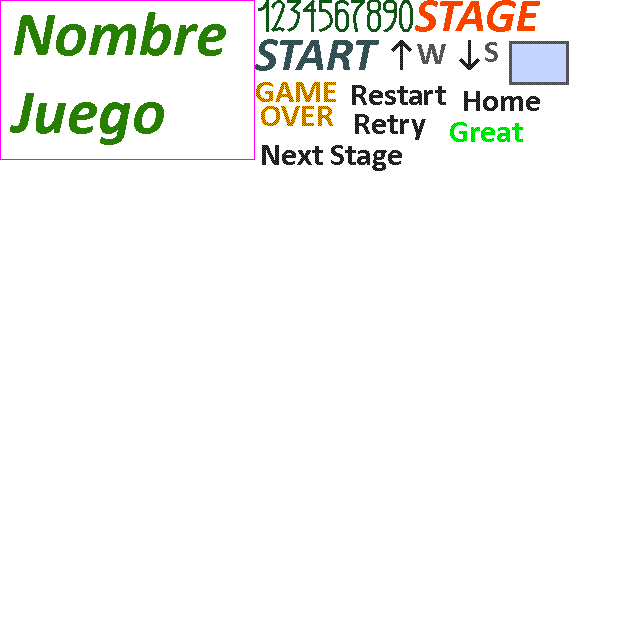
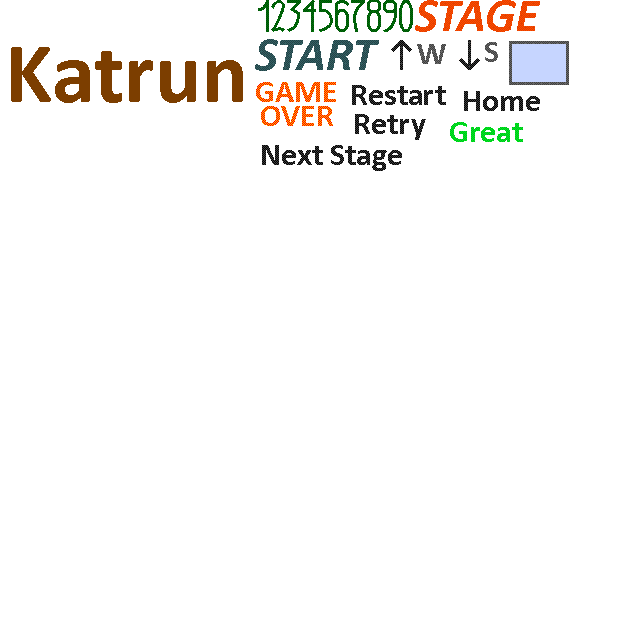
Submit al Ludum Dare 33

Changed region(s): [[0.0, 0.0, 0.4062, 0.25]]

diff --git a/js/GameEngine.js b/js/GameEngine.js
@@ -35,7 +35,7 @@ GameEngineClass = function(){
 
 	this.entidadesFactory = [];
 
-	this.isGUI = false;
+	this.isGUI = true;
 }
 
 GameEngineClass.prototype.setup = function () {
@@ -86,9 +86,11 @@ GameEngineClass.prototype.setup = function () {
 GameEngineClass.prototype.constructor = GameEngineClass;
 	// Metodo invocado cuando se terminan de cargar los sprites
 GameEngineClass.prototype.callbackIniciar = function(){
-
-	GE.nuevoNivel();
-
+	if(GE.isGUI){
+		GE.nuevoGUI("InicioGUI");
+	}else{
+		GE.nuevoNivel();
+	}	
 	/** Inicio de la sección para preparar un gameLoop eficiente **/
 	var animFrame = window.requestAnimationFrame ||
         window.webkitRequestAnimationFrame ||
@@ -138,13 +140,13 @@ GameEngineClass.prototype.cargarNiveles = function(){
 GameEngineClass.prototype.nivelSuperado = function(){
 	//alert("Level Cleared");
 	this.nivelActual++;
-	//this.nuevoNivel();
+	this.nuevoGUI("SuperadoGUI");
 	this.isGUI=true;
 }
 
 GameEngineClass.prototype.nivelPerdido = function(){
 	//alert("GameOver try again...");
-	//this.nuevoNivel();
+	this.nuevoGUI("PerdisteGUI");
 	this.isGUI=true;
 }
 
@@ -176,12 +178,33 @@ GameEngineClass.prototype.nuevoNivel = function(){
 
 }
 
+GameEngineClass.prototype.nuevoGUI = function(nombreGUI){
+	var nivelCargar = niveles[nombreGUI];
+
+	//Limpiamos todo lo del nivel anterior
+	for (var j = 0; j < this.entities.length; j++) {
+		if(this.entities[j].physBody) gPhysicsEngine.removeBody(this.entities[j].physBody);
+        this.entities.removeObj(this.entities[j]);
+    }
+
+	this.entities = [];
+	this.pilaresActivos=0;
+	this.cristalesActivos=0;
+	this.personaje = {};
+
+	for(var i=0; i<nivelCargar.entidades.length; i++){
+		var entidadNueva = new GUIEntityClass(nivelCargar.entidades[i]);
+		this.entities.push(entidadNueva);
+	}
+
+}
+
 GameEngineClass.prototype.tick = function() {
 
 	// Iniciamos el monitoreo
 	stats.begin();
 
-		if(!this.isGUI){
+	if(!this.isGUI){
 		if(this.cristalesActivos<1){
 			this.nivelSuperado();	
 		}else if(this.personaje && this.personaje!=null && this.personaje instanceof PlayerClass && this.personaje.isDead==false){
@@ -189,10 +212,10 @@ GameEngineClass.prototype.tick = function() {
 		}else{
 			this.nivelPerdido();
 		}
-
-	    GE.updateGame();
-	    GE.drawGame();
 	}
+
+	GE.updateGame();
+	GE.drawGame();
 
     //Finalizamos el monitoreo
     stats.end();

diff --git a/js/GUIActions.js b/js/GUIActions.js
@@ -1,0 +1,28 @@
+GUIActionsClass = function(){
+	this.acciones = {};
+}
+
+GUIActionsClass.prototype.constructor = GUIActionsClass;
+
+GUIActionsClass.prototype.aumentarNivel = function(){
+	GE.nivelActual++;
+	gInputEngine.actions[CLICK]=false;
+	//GE.isGUI = false;
+}
+
+GUIActionsClass.prototype.disminuirNivel = function(){
+	GE.nivelActual--;
+	gInputEngine.actions[CLICK]=false;
+	//GE.isGUI = false;
+}
+
+GUIActionsClass.prototype.iniciarNivel = function(){
+	gInputEngine.actions[CLICK]=false;
+	GE.isGUI = false;
+	GE.nuevoNivel();
+}
+
+GUIControl = new GUIActionsClass();
+GUIControl.acciones["aumentarNivel"]=GUIControl.aumentarNivel;
+GUIControl.acciones["disminuirNivel"]=GUIControl.disminuirNivel;
+GUIControl.acciones["iniciarNivel"]=GUIControl.iniciarNivel;

diff --git a/js/Entities/GUIEntity.js b/js/Entities/GUIEntity.js
@@ -17,9 +17,10 @@ GUIEntityClass.prototype = Object.create(EntityClass.prototype);
 GUIEntityClass.prototype.constructor = GUIEntityClass;
 
 GUIEntityClass.prototype.update = function(){
-	if(gInputEngine.actions[CLICK]){
-		if(GE.marcaMouse.pos.x>=this.pos.x && GE.marcaMouse.pos.y>=this.pos.y && GE.marcaMouse.pos.x<=(this.pos.x+this.sizeX) && GE.marcaMouse.pos.y<=(this.pos.y+this.sizeY)){
+	if(gInputEngine.actions[CLICK] && this.GUIAction!==""){
+		if(gInputEngine.mouse.x>=this.pos.x && gInputEngine.mouse.y>=this.pos.y && gInputEngine.mouse.x<=(this.pos.x+this.sizeX) && gInputEngine.mouse.y<=(this.pos.y+this.sizeY)){
 			//TODO llamar a la accion
+			GUIControl.acciones[this.GUIAction]();
 		}
 	}
 }

diff --git a/index.html b/index.html
@@ -45,6 +45,8 @@
 		<script type="text/javascript" src="js/Entities/Cristal.js"></script>
 		<script type="text/javascript" src="js/Levels/Level.js"></script>
 		<script type="text/javascript" src="js/Levels/LevelController.js"></script>
+		<script type="text/javascript" src="js/Entities/GUIEntity.js"></script>
+		<script type="text/javascript" src="js/GUIActions.js"></script>
 		<script type="text/javascript" src="js/GameEngine.js"></script>
 	<!--==============================-->
 	<!-- CARGUE DEL JUEGO             -->
